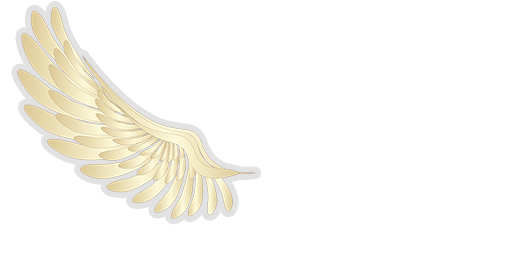
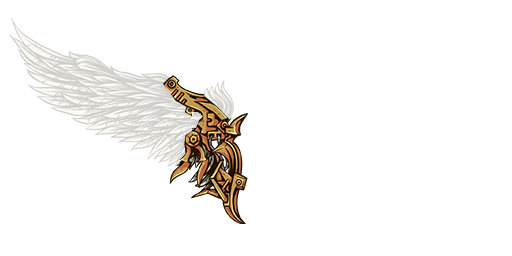
upd arch angel wings & fix guildname showing

Changed region(s): [[0.0, 0.0, 0.5312, 0.875]]

diff --git a/src/game/client/components/questing_processing.cpp b/src/game/client/components/questing_processing.cpp
@@ -44,7 +44,7 @@ void CQuestingProcessing::ProcessingRenderTable(int TableID, CUIRect &Box)
 	RenderTools()->DrawRoundRect(&Table, COLOR_TABLE, 15.0f);
 
 	{ // RES
-		vec4 ColorBarUI = (QuestTable[TableID].m_Have >= QuestTable[TableID].m_Requires ? vec4(0.40f, 0.75f, 0.1f, 0.50f) : vec4(0.75f, 0.30f, 0.1f, 0.50f));
+		vec4 ColorBarUI = (QuestTable[TableID].m_Have >= QuestTable[TableID].m_Requires ? vec4(0.40f, 0.80f, 0.1f, 0.50f) : vec4(0.80f, 0.30f, 0.1f, 0.50f));
 
 		char aQuestTable[32];
 		str_format(aQuestTable, sizeof(aQuestTable), "%s %d / %d", QuestTable[TableID].m_aText, QuestTable[TableID].m_Have, QuestTable[TableID].m_Requires);

diff --git a/src/game/client/components/players.cpp b/src/game/client/components/players.cpp
@@ -597,7 +597,7 @@ void CPlayers::RenderWings(CAnimState* pAnimWings, vec2 Position, vec2 Direction
 		case  19: Color = vec4(1.75f, 0.0f, 0.0f, 0.01f); break;
 		case  20: Color = vec4(0.2f, 0.2f, 1.75f, 0.01f); break;
 		case  21: Color = vec4(0.2f, 0.2f, 1.75f, 0.01f); break;
-		case  22: Color = vec4(1.0f, 1.0f, 0.0f, 0.01f); break;
+		case  22: Color = vec4(1.0f, 0.85f, 0.0f, 0.01f); break;
 		case  23: Color = vec4(0.1f + frandom() * 0.9f, 0.1f + frandom() * 0.9f, 0.1f + frandom() * 0.9f, 0.01f); break;
 		}
 

diff --git a/src/game/client/render.cpp b/src/game/client/render.cpp
@@ -818,7 +818,7 @@ void CRenderTools::RenderPicItems(CAnimState* pAnim, int RenderNum, vec2 Dir, ve
 					RenderWings(pAnim, IMAGE_WINGSIT21, vec2(115, 64), Position);
 					break;
 				case 22: // items wings
-					RenderWings(pAnim, IMAGE_WINGSIT22, vec2(115, 74), Position);
+					RenderWings(pAnim, IMAGE_WINGSIT22, vec2(170, 100), Position, 280, 150);
 					break;
 				case 23: // items wings
 					RenderWings(pAnim, IMAGE_WINGSIT23, vec2(115, 70), Position);
